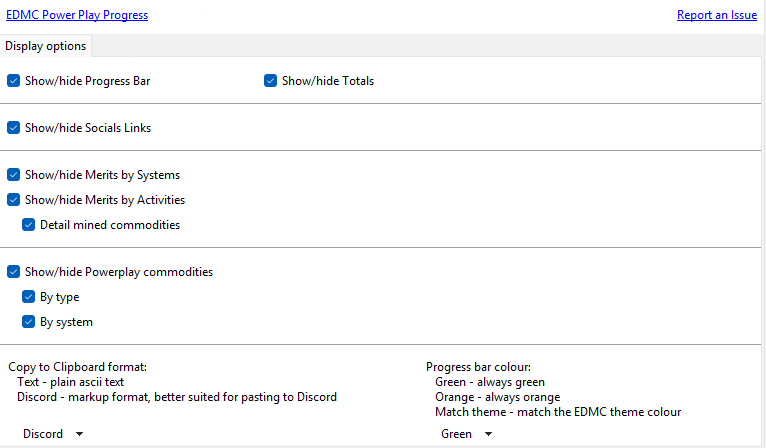
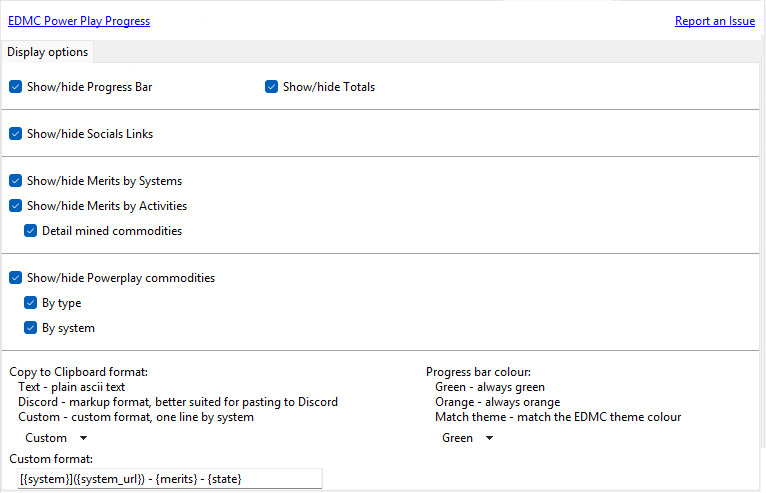
Readme updates

diff --git a/README.md b/README.md
@@ -17,32 +17,34 @@ EDMC-PowerPlayProgress is a EDMC addon that assists Elite Dangerous cmdrs to tra
   * Count per Power data
   * Count delivered by system
 * Ability to reset the progress counters
-* NEW & IMPROVED: Merits by Activity - rival power kills tracking & better ship scanning
+* Merits by Activity - rival power kills tracking & better ship scanning
 
     <img src="screen_shot_by_activities.png">
 
   * Ship/Wake scans
   * Bounties (even less now assigned to unknowns!!)
   * Power play commodities deliveries
-  * IMPROVED: Donation and aid missions (duplicate journal entries bug still an issue but EDMC-PPP now tracks the donation merits correctly with the error entries being allocated to unknowns)
+  * Donation and aid missions (duplicate journal entries bug still an issue but EDMC-PPP now tracks the donation merits correctly with the error entries being allocated to unknowns)
   * Scan Data Links
   * Holoscreen Hacks
   * Rare Goods
   * Salvage
-  * IMPROVED: Cartograhy - large multi-sell activities now tracked
+  * Cartograhy - large multi-sell activities now tracked
   * High Value Commodities
   * Low Value Commodities
   * Exobiology
   * Mined Commodities
   * On Foot activities
-  * NEW: Commit Crimes
-  * NEW: Rival Power Kills
+  * Commit Crimes
+  * Rival Power Kills
   * Unknowns (the journals have limited infomation so some will slip through the net when assigning them!)
 
   Will continue to improve the tracking and correct assignment to the correct systems but the current journal info is a limiting factor... :(
 
 * Preferences to show/hide all recorded info
-  * NEW: Customisble progress bar colour, green, orange or match the EDMC theme
+  * Customisble progress bar colour, green, orange or match the EDMC theme
+  * NEW: Custom format for copy to clipboard, use any of the following placeholders to format the output
+    * default: [{system}]({system_url}) - {merits} - {state} e.g. [Alrai Sector HM-V b2-6](https://inara.cz/elite/starsystem/?search=13864288789953) - 20 - Exploited
 
   <img src="screen_shot_preferences.png" width="500" height="300">
 
@@ -70,13 +72,14 @@ EDMC-PowerPlayProgress is a EDMC addon that assists Elite Dangerous cmdrs to tra
 
 ### Functions
 
-<img src="screen_shot_buttons_dark.png"> <img src="screen_shot_buttons_light.png">
+<img src="screen_shot_buttons_dark.png">
 
 * Copy Progress - copies the current displayed progress to the clipboard, configure it in preferences for markup/Discord friendly or text output
 
   <img src="screen_shot_clipboard_prefs.png">
 
-* Reset Progress - resets the current progress counters (except for the overall session total)
+* Reset - resets the current progress counters (except for the overall session total)
+* Reset Session - resets the Total Merits this session (helpful for clearing duplicate errors)
 
 ## Requirements
 * [EDMC] version 5.12 and above (python 3.11)
